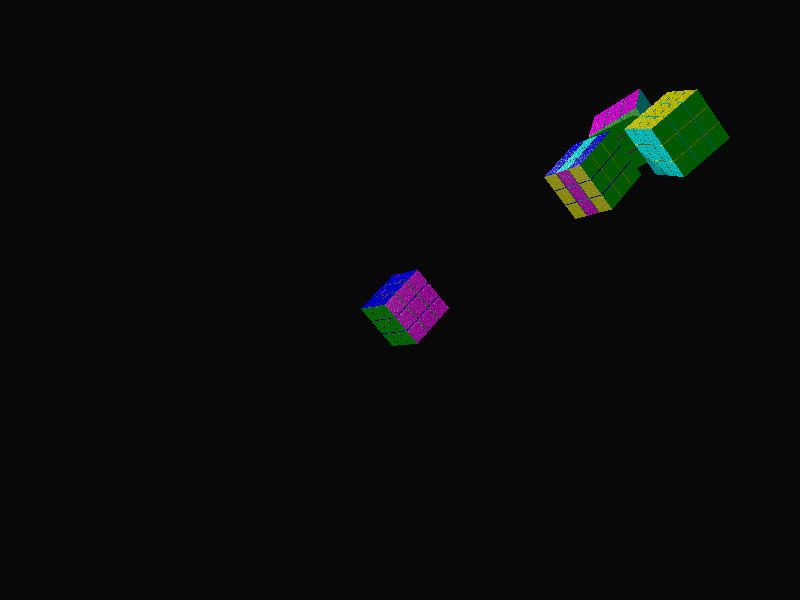
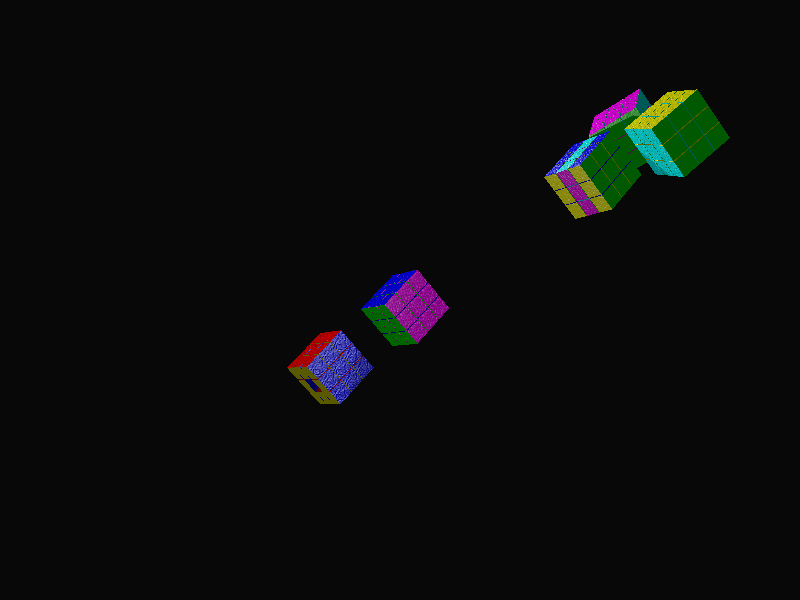
Cubelets: it has a hole
looks like the centre front is not filled
====================================================
// The things in this picture
union {
  object { this_cube_S_F translate <0,0,-1> }
  object { this_cube rotate z*90
	   rotate y*23
           translate <-1.9,0,4> }
  object { this_cube rotate x*-90 rotate z*-90
	   rotate y*-31 translate <-4,0,-1> }
  object { that_cube rotate y*90
           translate <10,0,-10> }
  object { that_cube rotate x*90
           translate <15,0,-13> }
  translate <-3,-4,2> rotate <131,144,133> }
====================================================
(reflection)

Changed region(s): [[0.3438, 0.54, 0.4688, 0.69]]

diff --git a/explore/a/p/6/in-pictures.html b/explore/a/p/6/in-pictures.html
@@ -1,0 +1,249 @@
+<?xml version="1.0" encoding="utf-8"?>
+<!DOCTYPE html PUBLIC "-//W3C//DTD XHTML 1.0 Strict//EN"
+"http://www.w3.org/TR/xhtml1/DTD/xhtml1-strict.dtd">
+<html xmlns="http://www.w3.org/1999/xhtml" lang="en" xml:lang="en">
+<head>
+<!-- 2022-08-07 Sun 19:28 -->
+<meta http-equiv="Content-Type" content="text/html;charset=utf-8" />
+<meta name="viewport" content="width=device-width, initial-scale=1" />
+<title>&lrm;</title>
+<meta name="author" content="Just this" />
+<meta name="generator" content="Org Mode" />
+<style>
+  #content { max-width: 60em; margin: auto; }
+  .title  { text-align: center;
+             margin-bottom: .2em; }
+  .subtitle { text-align: center;
+              font-size: medium;
+              font-weight: bold;
+              margin-top:0; }
+  .todo   { font-family: monospace; color: red; }
+  .done   { font-family: monospace; color: green; }
+  .priority { font-family: monospace; color: orange; }
+  .tag    { background-color: #eee; font-family: monospace;
+            padding: 2px; font-size: 80%; font-weight: normal; }
+  .timestamp { color: #bebebe; }
+  .timestamp-kwd { color: #5f9ea0; }
+  .org-right  { margin-left: auto; margin-right: 0px;  text-align: right; }
+  .org-left   { margin-left: 0px;  margin-right: auto; text-align: left; }
+  .org-center { margin-left: auto; margin-right: auto; text-align: center; }
+  .underline { text-decoration: underline; }
+  #postamble p, #preamble p { font-size: 90%; margin: .2em; }
+  p.verse { margin-left: 3%; }
+  pre {
+    border: 1px solid #e6e6e6;
+    border-radius: 3px;
+    background-color: #f2f2f2;
+    padding: 8pt;
+    font-family: monospace;
+    overflow: auto;
+    margin: 1.2em;
+  }
+  pre.src {
+    position: relative;
+    overflow: auto;
+  }
+  pre.src:before {
+    display: none;
+    position: absolute;
+    top: -8px;
+    right: 12px;
+    padding: 3px;
+    color: #555;
+    background-color: #f2f2f299;
+  }
+  pre.src:hover:before { display: inline; margin-top: 14px;}
+  /* Languages per Org manual */
+  pre.src-asymptote:before { content: 'Asymptote'; }
+  pre.src-awk:before { content: 'Awk'; }
+  pre.src-authinfo::before { content: 'Authinfo'; }
+  pre.src-C:before { content: 'C'; }
+  /* pre.src-C++ doesn't work in CSS */
+  pre.src-clojure:before { content: 'Clojure'; }
+  pre.src-css:before { content: 'CSS'; }
+  pre.src-D:before { content: 'D'; }
+  pre.src-ditaa:before { content: 'ditaa'; }
+  pre.src-dot:before { content: 'Graphviz'; }
+  pre.src-calc:before { content: 'Emacs Calc'; }
+  pre.src-emacs-lisp:before { content: 'Emacs Lisp'; }
+  pre.src-fortran:before { content: 'Fortran'; }
+  pre.src-gnuplot:before { content: 'gnuplot'; }
+  pre.src-haskell:before { content: 'Haskell'; }
+  pre.src-hledger:before { content: 'hledger'; }
+  pre.src-java:before { content: 'Java'; }
+  pre.src-js:before { content: 'Javascript'; }
+  pre.src-latex:before { content: 'LaTeX'; }
+  pre.src-ledger:before { content: 'Ledger'; }
+  pre.src-lisp:before { content: 'Lisp'; }
+  pre.src-lilypond:before { content: 'Lilypond'; }
+  pre.src-lua:before { content: 'Lua'; }
+  pre.src-matlab:before { content: 'MATLAB'; }
+  pre.src-mscgen:before { content: 'Mscgen'; }
+  pre.src-ocaml:before { content: 'Objective Caml'; }
+  pre.src-octave:before { content: 'Octave'; }
+  pre.src-org:before { content: 'Org mode'; }
+  pre.src-oz:before { content: 'OZ'; }
+  pre.src-plantuml:before { content: 'Plantuml'; }
+  pre.src-processing:before { content: 'Processing.js'; }
+  pre.src-python:before { content: 'Python'; }
+  pre.src-R:before { content: 'R'; }
+  pre.src-ruby:before { content: 'Ruby'; }
+  pre.src-sass:before { content: 'Sass'; }
+  pre.src-scheme:before { content: 'Scheme'; }
+  pre.src-screen:before { content: 'Gnu Screen'; }
+  pre.src-sed:before { content: 'Sed'; }
+  pre.src-sh:before { content: 'shell'; }
+  pre.src-sql:before { content: 'SQL'; }
+  pre.src-sqlite:before { content: 'SQLite'; }
+  /* additional languages in org.el's org-babel-load-languages alist */
+  pre.src-forth:before { content: 'Forth'; }
+  pre.src-io:before { content: 'IO'; }
+  pre.src-J:before { content: 'J'; }
+  pre.src-makefile:before { content: 'Makefile'; }
+  pre.src-maxima:before { content: 'Maxima'; }
+  pre.src-perl:before { content: 'Perl'; }
+  pre.src-picolisp:before { content: 'Pico Lisp'; }
+  pre.src-scala:before { content: 'Scala'; }
+  pre.src-shell:before { content: 'Shell Script'; }
+  pre.src-ebnf2ps:before { content: 'ebfn2ps'; }
+  /* additional language identifiers per "defun org-babel-execute"
+       in ob-*.el */
+  pre.src-cpp:before  { content: 'C++'; }
+  pre.src-abc:before  { content: 'ABC'; }
+  pre.src-coq:before  { content: 'Coq'; }
+  pre.src-groovy:before  { content: 'Groovy'; }
+  /* additional language identifiers from org-babel-shell-names in
+     ob-shell.el: ob-shell is the only babel language using a lambda to put
+     the execution function name together. */
+  pre.src-bash:before  { content: 'bash'; }
+  pre.src-csh:before  { content: 'csh'; }
+  pre.src-ash:before  { content: 'ash'; }
+  pre.src-dash:before  { content: 'dash'; }
+  pre.src-ksh:before  { content: 'ksh'; }
+  pre.src-mksh:before  { content: 'mksh'; }
+  pre.src-posh:before  { content: 'posh'; }
+  /* Additional Emacs modes also supported by the LaTeX listings package */
+  pre.src-ada:before { content: 'Ada'; }
+  pre.src-asm:before { content: 'Assembler'; }
+  pre.src-caml:before { content: 'Caml'; }
+  pre.src-delphi:before { content: 'Delphi'; }
+  pre.src-html:before { content: 'HTML'; }
+  pre.src-idl:before { content: 'IDL'; }
+  pre.src-mercury:before { content: 'Mercury'; }
+  pre.src-metapost:before { content: 'MetaPost'; }
+  pre.src-modula-2:before { content: 'Modula-2'; }
+  pre.src-pascal:before { content: 'Pascal'; }
+  pre.src-ps:before { content: 'PostScript'; }
+  pre.src-prolog:before { content: 'Prolog'; }
+  pre.src-simula:before { content: 'Simula'; }
+  pre.src-tcl:before { content: 'tcl'; }
+  pre.src-tex:before { content: 'TeX'; }
+  pre.src-plain-tex:before { content: 'Plain TeX'; }
+  pre.src-verilog:before { content: 'Verilog'; }
+  pre.src-vhdl:before { content: 'VHDL'; }
+  pre.src-xml:before { content: 'XML'; }
+  pre.src-nxml:before { content: 'XML'; }
+  /* add a generic configuration mode; LaTeX export needs an additional
+     (add-to-list 'org-latex-listings-langs '(conf " ")) in .emacs */
+  pre.src-conf:before { content: 'Configuration File'; }
+
+  table { border-collapse:collapse; }
+  caption.t-above { caption-side: top; }
+  caption.t-bottom { caption-side: bottom; }
+  td, th { vertical-align:top;  }
+  th.org-right  { text-align: center;  }
+  th.org-left   { text-align: center;   }
+  th.org-center { text-align: center; }
+  td.org-right  { text-align: right;  }
+  td.org-left   { text-align: left;   }
+  td.org-center { text-align: center; }
+  dt { font-weight: bold; }
+  .footpara { display: inline; }
+  .footdef  { margin-bottom: 1em; }
+  .figure { padding: 1em; }
+  .figure p { text-align: center; }
+  .equation-container {
+    display: table;
+    text-align: center;
+    width: 100%;
+  }
+  .equation {
+    vertical-align: middle;
+  }
+  .equation-label {
+    display: table-cell;
+    text-align: right;
+    vertical-align: middle;
+  }
+  .inlinetask {
+    padding: 10px;
+    border: 2px solid gray;
+    margin: 10px;
+    background: #ffffcc;
+  }
+  #org-div-home-and-up
+   { text-align: right; font-size: 70%; white-space: nowrap; }
+  textarea { overflow-x: auto; }
+  .linenr { font-size: smaller }
+  .code-highlighted { background-color: #ffff00; }
+  .org-info-js_info-navigation { border-style: none; }
+  #org-info-js_console-label
+    { font-size: 10px; font-weight: bold; white-space: nowrap; }
+  .org-info-js_search-highlight
+    { background-color: #ffff00; color: #000000; font-weight: bold; }
+  .org-svg { width: 90%; }
+</style>
+</head>
+<body>
+<div id="content" class="content">
+<div id="table-of-contents" role="doc-toc">
+<h2>Table of Contents</h2>
+<div id="text-table-of-contents" role="doc-toc">
+<ul>
+<li><a href="#org4c7b903">1. Taking pictures</a>
+<ul>
+<li><a href="#org4bfe1c9">1.1. Now, again we started with a single cubelet at the centre</a></li>
+<li><a href="#org6199269">1.2. So, what if we turn this around the Y-axis</a></li>
+</ul>
+</li>
+</ul>
+</div>
+</div>
+<div id="outline-container-org4c7b903" class="outline-2">
+<h2 id="org4c7b903"><span class="section-number-2">1.</span> Taking pictures</h2>
+<div class="outline-text-2" id="text-1">
+<p>
+<a href="https://en.wikipedia.org/wiki/POV-Ray">POV-ray</a> has an example of the box.
+</p>
+</div>
+<div id="outline-container-org4bfe1c9" class="outline-3">
+<h3 id="org4bfe1c9"><span class="section-number-3">1.1.</span> <a href="./S_F.pov">Now, again</a> we started with a single cubelet at the centre</h3>
+<div class="outline-text-3" id="text-1-1">
+<p>
+and filled the surrounding twelve edges, eight corners, and
+six centres. (That's what we thought we did.  However, turning
+this cube of nine cubelets reveals a hole in the centre of
+the front face.)
+<img src="./S_F.png" alt="S_F.png" />
+</p>
+</div>
+</div>
+<div id="outline-container-org6199269" class="outline-3">
+<h3 id="org6199269"><span class="section-number-3">1.2.</span> <a href="./S_F0.pov">So, what if</a> we turn this around the Y-axis</h3>
+<div class="outline-text-3" id="text-1-2">
+
+<div id="org1d408eb" class="figure">
+<p><img src="./S_F0.png" alt="S_F0.png" />
+</p>
+</div>
+</div>
+</div>
+</div>
+</div>
+<div id="postamble" class="status">
+<p class="author">Author: Just this</p>
+<p class="date">Created: 2022-08-07 Sun 19:28</p>
+<p class="validation"><a href="https://validator.w3.org/check?uri=referer">Validate</a></p>
+</div>
+</body>
+</html>
